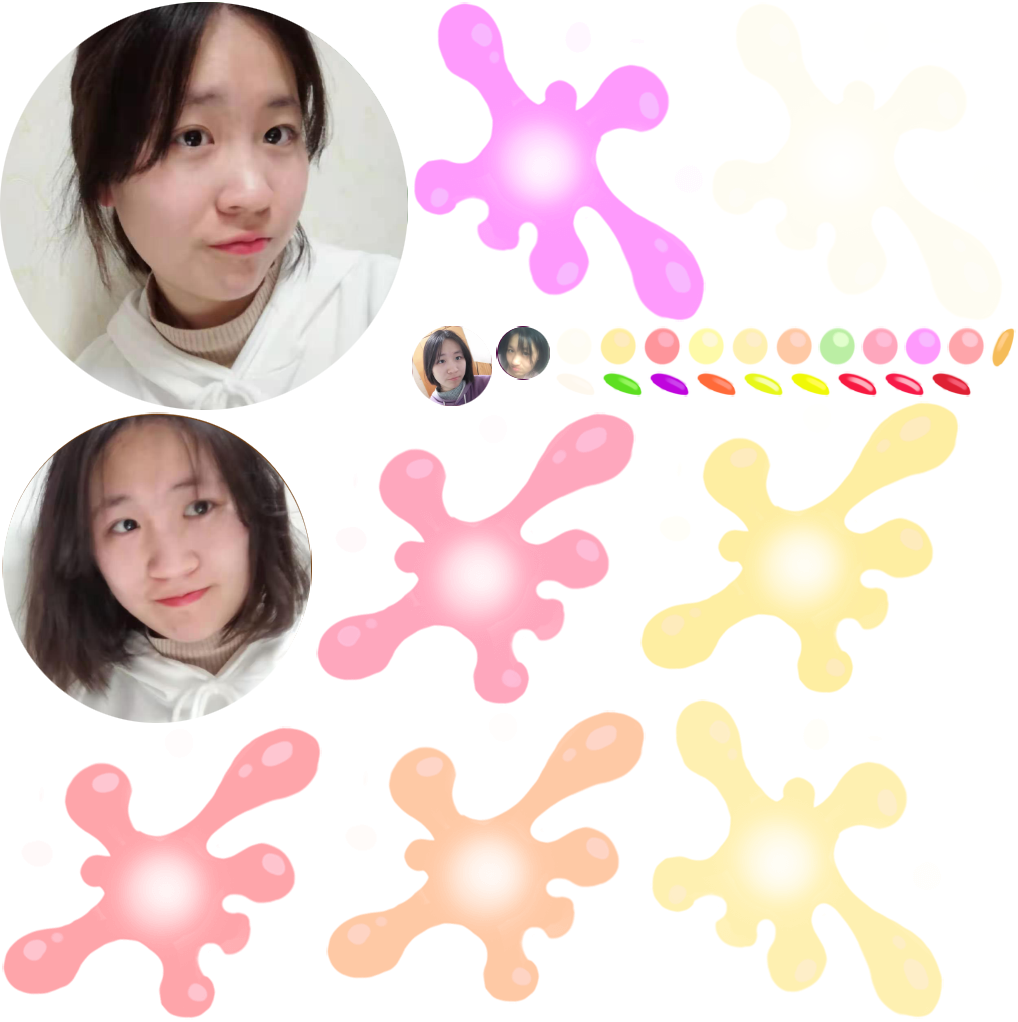
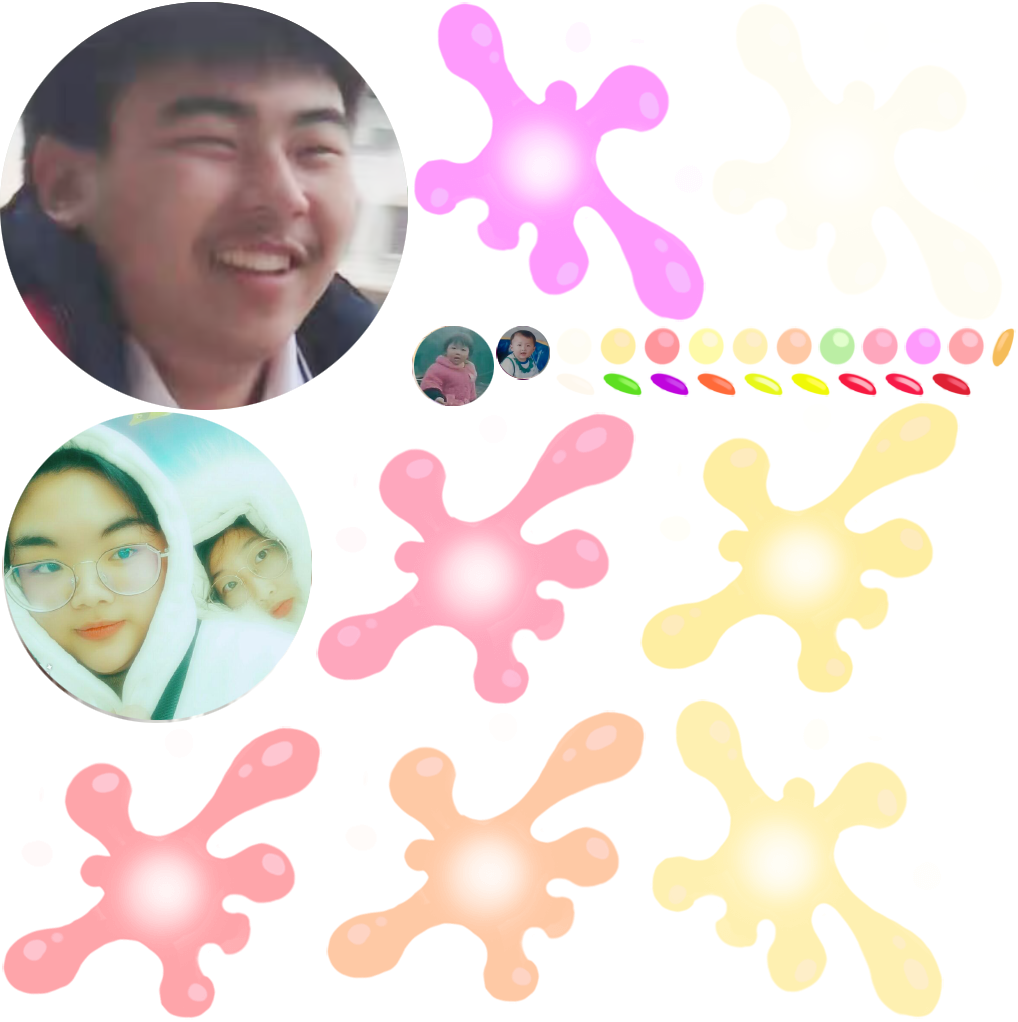
nitial commit

Changed region(s): [[0.0, 0.0, 0.4263, 0.728], [0.3959, 0.3033, 0.5481, 0.3943]]

diff --git a/index.html b/index.html
@@ -4,7 +4,7 @@
 <head>
     <meta charset="utf-8">
 
-    <title>合成欣玥儿</title>
+    <title>合成刀哥哥</title>
 
     <!--http://www.html5rocks.com/en/mobile/mobifying/-->
     <meta name="viewport" content="width=device-width,user-scalable=no,initial-scale=1, minimum-scale=1,maximum-scale=1" />
